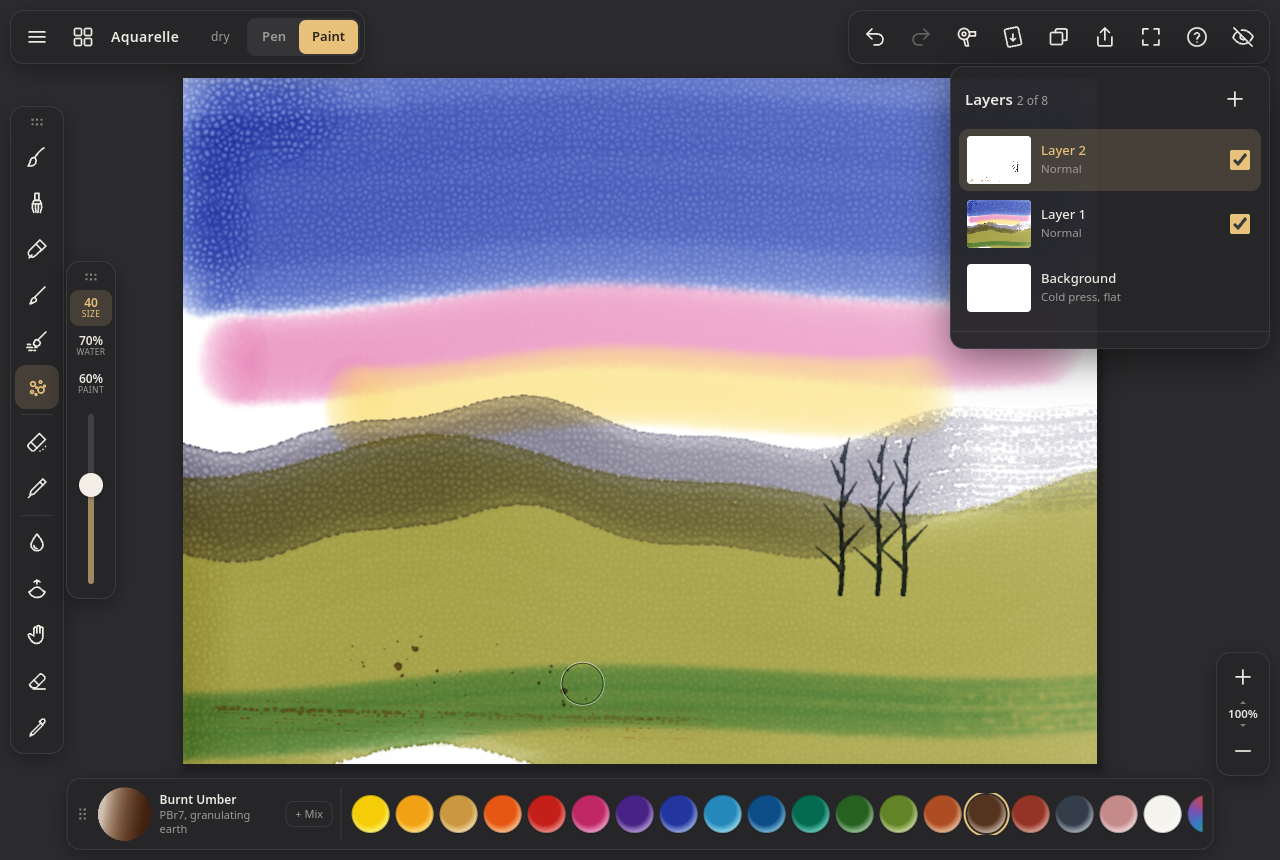
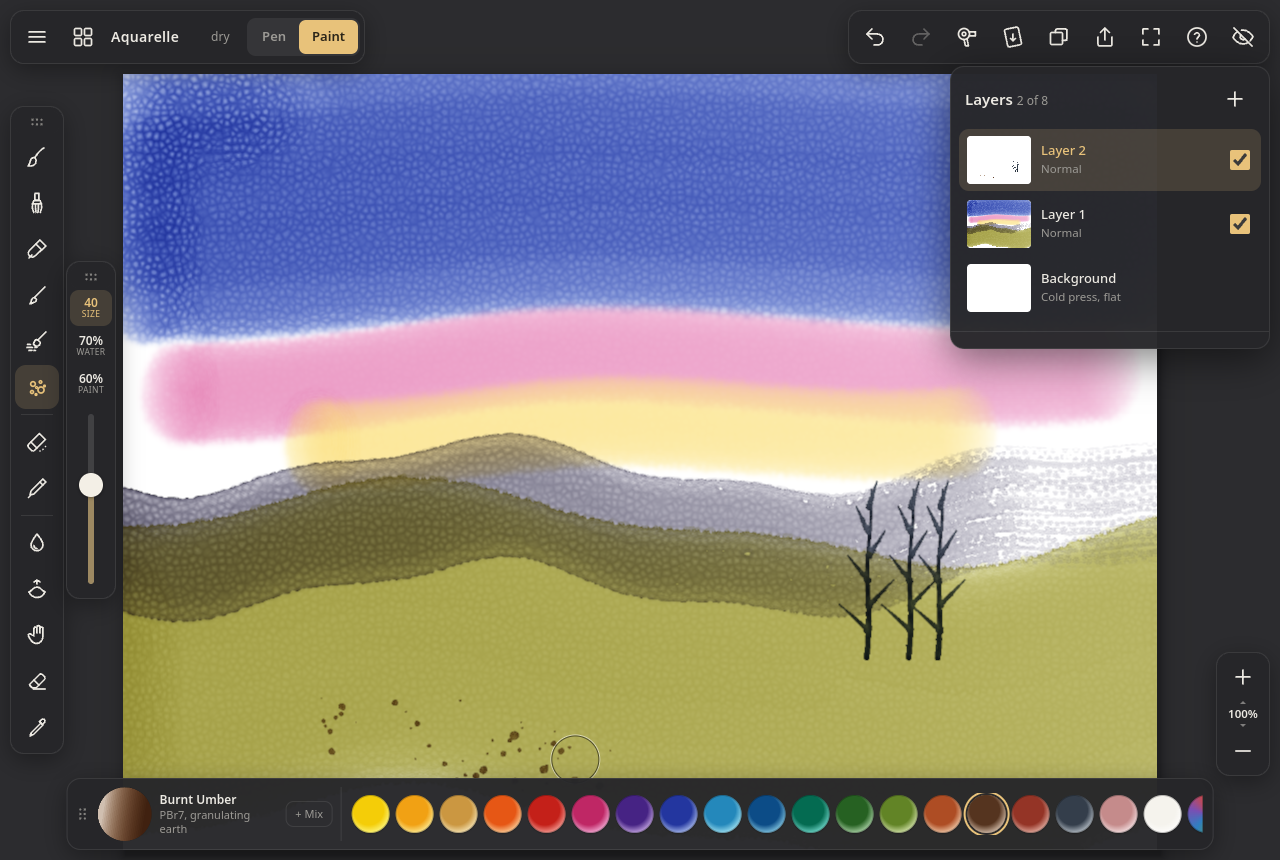
Aquarelle: fit the page to the whole screen below the top bars

diff --git a/vibes/aquarelle/smoke.js b/vibes/aquarelle/smoke.js
@@ -128,6 +128,9 @@ try {
   check(errors().length === 0, 'no console errors on load', errors().join(' | '));
   check(await ev('__aq.sim.W > 1000 && __aq.sim.H > 600 && !!__aq.doc.id'), 'first visit opens a screen-shaped canvas');
   await ev('__aq.createPainting(1600, 1200).then(() => true)');
+  // the page now fills the screen under the floating panels: zoom out a little so every
+  // test stroke lands on the page, not on the palette
+  await ev('__aq.fit(0.8); true');
   const W = await ev('__aq.sim.W'), H = await ev('__aq.sim.H');
   await sleep(300); await shot('ui');
 
@@ -258,7 +261,7 @@ try {
   await c.send('Input.dispatchTouchEvent', { type: 'touchEnd', touchPoints: [] });
   await sleep(100);
   check(await ev('__aq.sim.undo.length') === undoBefore - 1, 'two-finger tap undoes');
-  await ev('__aq.fit(); true');
+  await ev('__aq.fit(0.8); true');
   await ev(`__aq.S.fingers = 'paint'; true`);
   await setT('paint', 'round', 'cadred', { size: 22 });
   const tp = []; for (const [x, y] of line(900, 1150, 1450, 1150, 30)) tp.push(await scr(x, y));
@@ -333,9 +336,9 @@ try {
   check(Math.abs(z125 - 1.25) < 0.01 && top125, 'a 7" screen opens pages at 125%, from the top left', (z125 * 100).toFixed(0) + '%');
   await ev('__aq.fit(1); true'); await sleep(200);
   check(await ev('document.body.classList.contains("penmode") && getComputedStyle(document.querySelector("#penBar")).display === "flex"'), 'pen mode shows nibs and ink colours');
-  // fits between the bars
-  const fitOk = await ev(`(() => { const a = __aq.toScreen(0, 0), b = __aq.toScreen(__aq.sim.W, __aq.sim.H), top = Math.max(document.querySelector('#topL').getBoundingClientRect().bottom, document.querySelector('#topR').getBoundingClientRect().bottom), pb = document.querySelector('#penBar').getBoundingClientRect().top; return a.y >= top - 1 && b.y <= pb + 1 && a.x >= 0 && b.x <= innerWidth; })()`);
-  check(fitOk, 'page fits between the top bar and the pen bar');
+  // fits the whole screen below the top bar (the other panels float over it)
+  const fitOk = await ev(`(() => { const a = __aq.toScreen(0, 0), b = __aq.toScreen(__aq.sim.W, __aq.sim.H), top = Math.max(document.querySelector('#topL').getBoundingClientRect().bottom, document.querySelector('#topR').getBoundingClientRect().bottom); return a.y >= top - 1 && b.y <= innerHeight && a.x >= 0 && b.x <= innerWidth && (b.x - a.x > innerWidth - 30 || b.y - a.y > innerHeight - top - 30); })()`);
+  check(fitOk, 'the whole page fills the screen below the top bar');
   const tgt = await ev(`[...document.querySelectorAll('.panel button:not(.grip)')].filter((b) => b.offsetParent).map((b) => { const r = b.getBoundingClientRect(); return Math.min(r.width, r.height); }).sort((a, b) => a - b)[0]`);
   check(tgt >= 30, 'touch targets at least 30 CSS px (≈ 5 mm on the B7 Pro)', tgt.toFixed(0) + ' px');
   const grp = await ev(`[...document.querySelectorAll('.panel .grip')].filter((b) => b.offsetParent).map((b) => { const r = b.getBoundingClientRect(); return [Math.min(r.width, r.height), Math.max(r.width, r.height)]; })`);
@@ -629,7 +632,6 @@ try {
   await sleep(400);
   const qg1 = await gripAt('tools');
   check(Math.abs(qg1[0] - qg0[0] - 250) < 3 && Math.abs(qg1[1] - qg0[1] - 50) < 3, 'dragging the grip moves the tool strip', `${(qg1[0] - qg0[0]).toFixed(0)}, ${(qg1[1] - qg0[1]).toFixed(0)}`);
-  check(await ev(`__aq.freeArea().left < 40`), 'a floating panel leaves the page its room');
   check(await load('nosw=1&nohelp=1&nosave=1&eink=1'), 'reload keeps the panel'); await sleep(300);
   const qg2 = await gripAt('tools');
   check(Math.abs(qg2[0] - qg1[0]) < 3 && Math.abs(qg2[1] - qg1[1]) < 3, 'the tool strip is still where it was put');

diff --git a/vibes/aquarelle/app.js b/vibes/aquarelle/app.js
@@ -306,22 +306,17 @@ function layoutPanels() {
   }
   fitColumns();
 }
-/** The free rectangle the floating panels leave: wide panels (bars) bound it from above or
- *  below, tall ones (tool strip, sliders, zoom) from the side. */
+/** The rectangle the page is fitted to: the whole viewport below the top bars. The other
+ *  panels (tools, sliders, palette, zoom) float over the page instead of shrinking it. */
 function freeArea() {
-  const gap = box.w < 720 ? 8 : 14;
-  let top = box.y, bottom = box.y + box.h, left = box.x, right = box.x + box.w;
-  for (const sel of ['#topL', '#topR', '#pages', '#tools', '#sliders', '#zoomBar', '#palette', '#penBar']) {
-    const r = rectOf(sel); if (!r || (MOVABLE.includes(sel.slice(1)) && floating(sel.slice(1)))) continue;
-    const cx = r.left + r.width / 2, cy = r.top + r.height / 2;
-    if (r.width >= r.height) { if (cy < box.y + box.h / 2) top = Math.max(top, r.bottom); else bottom = Math.min(bottom, r.top); }
-    else if (cx < box.x + box.w / 2) left = Math.max(left, r.right); else right = Math.min(right, r.left);
+  const gap = box.w < 720 ? 6 : 10;
+  let top = box.y;
+  for (const sel of ['#topL', '#topR', '#pages']) {
+    const r = rectOf(sel); if (!r || r.width < r.height || r.top > box.y + box.h / 3) continue;
+    top = Math.max(top, r.bottom);
   }
-  top += gap; bottom -= gap; left += gap; right -= gap;
-  // on wide screens keep the sheet centred: as much room on the right as the panels take on the left
-  if (box.w >= 720) { const inset = Math.max(left - box.x, box.x + box.w - right); left = box.x + inset; right = box.x + box.w - inset; }
-  if (bottom - top < 120) { top = box.y + gap; bottom = box.y + box.h - gap; }
-  if (right - left < 120) { left = box.x + gap; right = box.x + box.w - gap; }
+  const left = box.x + gap, right = box.x + box.w - gap, bottom = box.y + box.h - gap;
+  top += gap;
   return { left, top, right, bottom, w: right - left, h: bottom - top };
 }
 /** Zoom at which the whole sheet just fits the free area ("100%"); on an infinite page,

diff --git a/CHANGELOG.md b/CHANGELOG.md
@@ -1,6 +1,7 @@
 # Logs
 
 28 Oct 2026
+- Aquarelle: fitting the page (100%, the % button, opening a page) uses the whole screen below the top bars; the tool strip, sliders, palette and zoom float over the page instead of shrinking it.
 - CarPlay Gravity: ripples off by default (a crack no longer splashes when they are off), bolder crack lines with a dark shadow edge, and the WebGL pass holds GPU memory only while it runs: the GL canvas and textures shrink to 1 × 1 when idle, crack maps at up to 1.5 px per logical px with their 2D canvases freed after upload, the frame texture updated in place. `node smoke.js` 36 checks.
 - CarPlay Gravity: cracks and liquid ripples as a WebGL2 after-effect (`fx.js`) over the canvas frame. Shards shift the picture under them, crack edges split colour and catch the light, the panel bleeds ink from the impact with an oily rim; touches send ripple rings, drags leave a wake, Shake and cracks splash. Ripples On / Off in the sheet (`?ripples=off`); 2D fallback without WebGL2. Smoke Chromium runs with SwiftShader WebGL. `node smoke.js` 35 checks.
 - Aquarelle: one-tap Hide all panels (eye at the top right; a faint eye stays in the corner to bring them back; Tab and the four-finger tap do the same).
